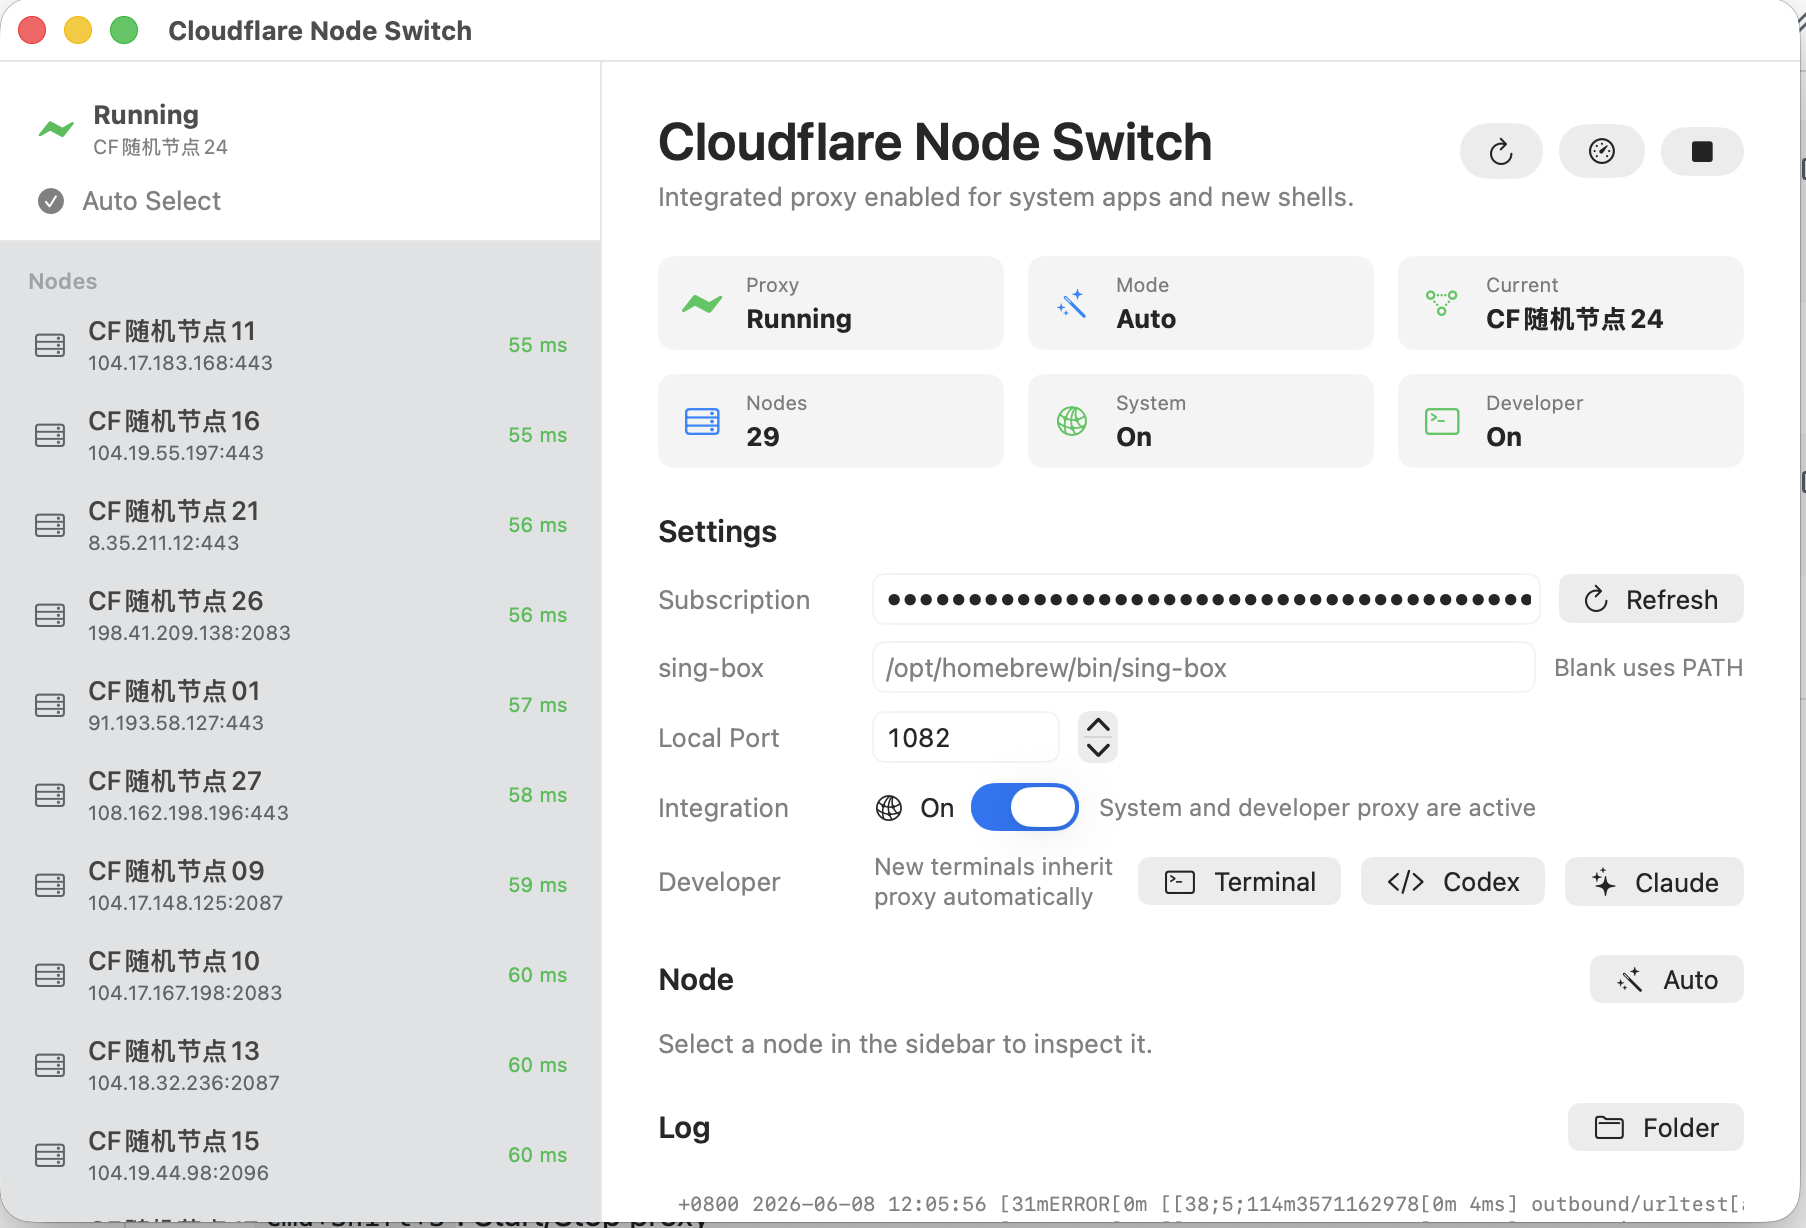
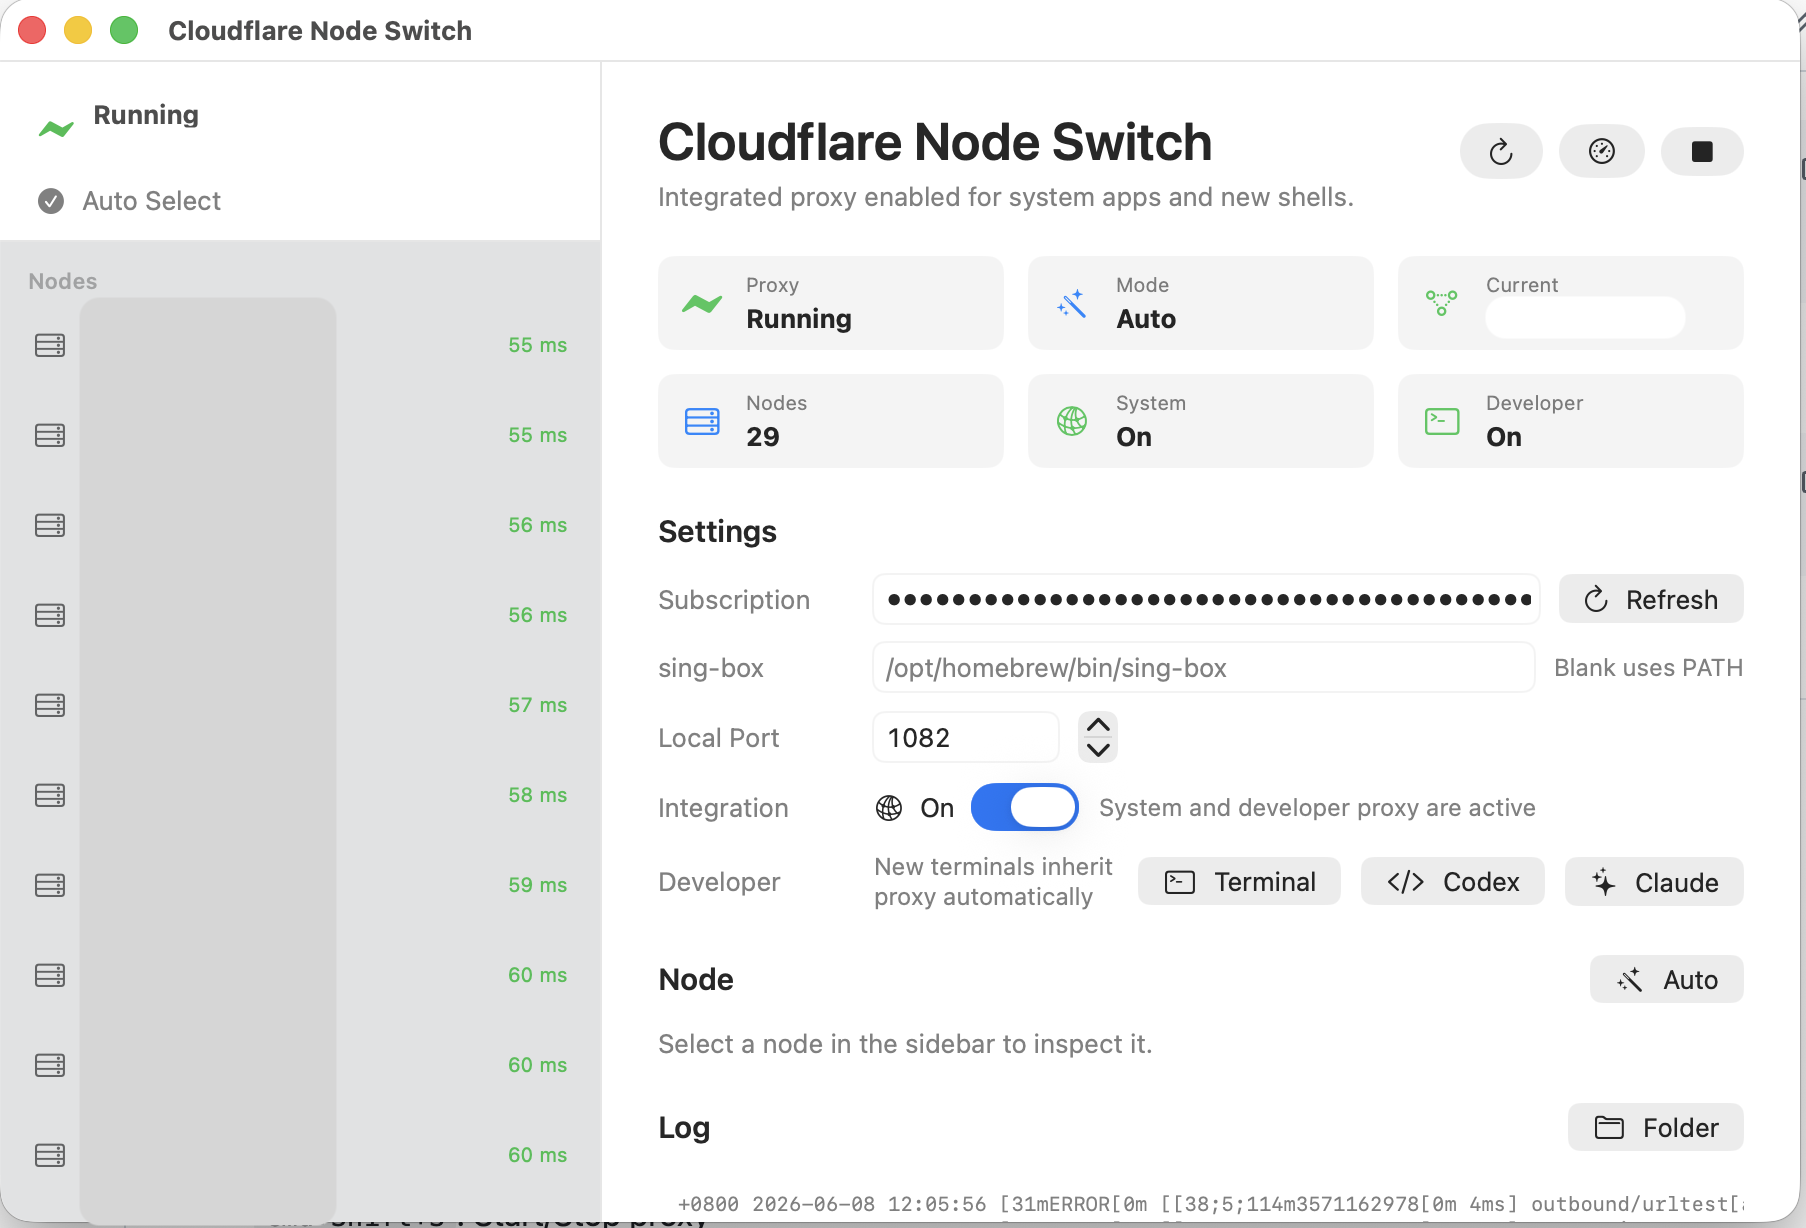
Remove Chinese README, hide sensitive terms in English README
- Remove README_CN.md
- Replace vless/subscription/proxy with generic terms
- Update screenshot

diff --git a/README.md b/README.md
@@ -1,8 +1,6 @@
 # Cloudflare Node Switch
 
-[English](README.md) | [中文](README_CN.md)
-
-A macOS SwiftUI application for managing VLESS subscription nodes with intelligent latency-based auto-selection.
+A macOS SwiftUI application for intelligent network node management with automatic latency-based selection.
 
 ![Screenshot](docs/screenshot.png)
 
@@ -16,13 +14,13 @@ The core feature is **automatic node optimization** — the app continuously tes
 ├─────────────────────────────────────────────────────────────────────┤
 │                                                                     │
 │  ┌──────────────┐     ┌──────────────┐     ┌───────────────┐       │
-│  │ Subscription  │────▶│  Parse VLESS │────▶│  Node Pool    │       │
-│  │     URL       │     │    Links     │     │  (N nodes)    │       │
+│  │   Remote     │────▶│   Parse &    │────▶│  Node Pool    │       │
+│  │   Config     │     │   Decode     │     │  (N nodes)    │       │
 │  └──────────────┘     └──────────────┘     └───────┬───────┘       │
 │                                                     │               │
 │                                                     ▼               │
 │  ┌─────────────────────────────────────────────────────────────┐    │
-│  │                     sing-box urltest                         │    │
+│  │                   Latency Auto-Test                         │    │
 │  │                                                              │    │
 │  │  ┌────────┐  ┌────────┐  ┌────────┐         ┌────────┐     │    │
 │  │  │ Node 1 │  │ Node 2 │  │ Node 3 │   ···   │ Node N │     │    │
@@ -40,11 +38,11 @@ The core feature is **automatic node optimization** — the app continuously tes
 │                            ▼                                            │
 │  ┌─────────────────────────────────────────────────────────────────┐    │
 │  │                    127.0.0.1:7890                                │    │
-│  │              Mixed HTTP / SOCKS5 Proxy                           │    │
+│  │                   Local Network Gateway                         │    │
 │  └─────────────────────────┬───────────────────────────────────────┘    │
 │                            ▼                                            │
 │                ┌───────────────────┐                                    │
-│                │    System Proxy   │                                    │
+│                │    System Network │                                    │
 │                │    + Developer    │                                    │
 │                │    Terminals      │                                    │
 │                └───────────────────┘                                    │
@@ -53,27 +51,27 @@ The core feature is **automatic node optimization** — the app continuously tes
 
 ### Selection Algorithm
 
-1. **Fetch Subscription** — Decode Base64 subscription response containing `vless://` links
-2. **Build Node Pool** — Parse all available Cloudflare edge nodes from the subscription
+1. **Fetch Config** — Retrieve and decode remote configuration data
+2. **Build Node Pool** — Parse all available Cloudflare edge nodes
 3. **Latency Testing** — TCP handshake to measure real connection time for each node
-4. **Auto Selection** — sing-box `urltest` continuously monitors and picks the fastest node
+4. **Auto Selection** — Continuously monitors and picks the fastest node
 5. **Failover** — If the current node fails, automatically switches to the next best option
-6. **Real-time Monitoring** — Clash API tracks the active node, UI updates every 3 seconds
+6. **Real-time Monitoring** — Tracks the active node, UI updates every 3 seconds
 
 ### Why This Works Well for Cloudflare
 
 - **Edge Network** — Cloudflare has 300+ edge locations worldwide
 - **Random Assignment** — Nodes are dynamically assigned, latency varies by time of day
-- **Continuous Testing** — urltest runs every minute with 50ms tolerance threshold
+- **Continuous Testing** — Auto-test runs every minute with 50ms tolerance threshold
 - **Smart Routing** — Picks the optimal node based on your actual network conditions
 
 ## Features
 
-- **VLESS Subscription Management**: Parse and manage VLESS subscription links
-- **Intelligent Node Selection**: Automatic latency-based node selection using sing-box's urltest
+- **Node Management**: Parse and manage network node configurations
+- **Intelligent Selection**: Automatic latency-based node selection
 - **Real-time Latency Testing**: TCP latency measurement for quick node sorting
-- **System Integration**: Seamless macOS system proxy configuration
-- **Developer Tools**: Proxy-aware terminal integration for development workflows
+- **System Integration**: Seamless macOS network configuration
+- **Developer Tools**: Network-aware terminal integration for development workflows
 - **Clean UI**: Native SwiftUI interface with sidebar node list and detailed configuration
 
 ## Requirements
@@ -108,24 +106,24 @@ open "$HOME/Applications/Cloudflare Node Switch.app"
 ## Usage
 
 1. Launch the application
-2. Paste your VLESS subscription URL in the settings panel
+2. Paste your configuration URL in the settings panel
 3. Click "Refresh" to load available nodes
-4. Click "Start" to launch the proxy service
-5. Enable system proxy integration for automatic configuration
+4. Click "Start" to launch the service
+5. Enable system network integration for automatic configuration
 
 ### Keyboard Shortcuts
 
-- `Cmd+R`: Refresh subscription
-- `Cmd+Shift+S`: Start/Stop proxy
-- `Space`: Start/Stop proxy (when window is focused)
+- `Cmd+R`: Refresh configuration
+- `Cmd+Shift+S`: Start/Stop service
+- `Space`: Start/Stop service (when window is focused)
 
 ### Developer Integration
 
-The application provides proxy-aware terminal integration for development tools:
+The application provides network-aware terminal integration for development tools:
 
-- **Terminal**: Open a new terminal with proxy environment variables
-- **Codex**: Launch Codex with proxy configuration
-- **Claude**: Launch Claude Code with proxy settings
+- **Terminal**: Open a new terminal with network environment variables
+- **Codex**: Launch Codex with network configuration
+- **Claude**: Launch Claude Code with network settings
 
 ## Configuration
 
@@ -135,10 +133,10 @@ Generated configuration and logs are stored in:
 ~/Library/Application Support/CloudflareNodeSwitch/
 ```
 
-### Proxy Settings
+### Network Settings
 
 - **Default Port**: 7890 (configurable)
-- **Protocol**: Mixed HTTP/HTTPS/SOCKS5 proxy
+- **Protocol**: Mixed HTTP/HTTPS/SOCKS5
 - **Auto-detection**: Interface auto-detection enabled
 
 ### Node Selection Modes
@@ -152,15 +150,15 @@ The application follows a clean MVVM architecture:
 
 - **AppState**: Central state management with Combine publishers
 - **Views**: SwiftUI components for the user interface
-- **Services**: Business logic for subscription parsing, config generation, and system integration
-- **Models**: Data structures for proxy nodes and configuration
+- **Services**: Business logic for config parsing, generation, and system integration
+- **Models**: Data structures for nodes and configuration
 
 ### Key Components
 
-- `SubscriptionService`: Fetches and parses VLESS subscription data
-- `SingBoxConfigBuilder`: Generates sing-box configuration from nodes
-- `SystemProxyManager`: Manages macOS system proxy settings
-- `DeveloperProxyManager`: Handles terminal proxy integration
+- `SubscriptionService`: Fetches and parses remote configuration data
+- `SingBoxConfigBuilder`: Generates configuration from nodes
+- `SystemProxyManager`: Manages macOS network settings
+- `DeveloperProxyManager`: Handles terminal network integration
 
 ## Development
 
@@ -207,6 +205,5 @@ This software is provided "as is", without warranty of any kind. The author is n
 
 ## Acknowledgments
 
-- [sing-box](https://sing-box.sagernet.org/) - The universal proxy platform
-- [VLESS Protocol](https://www.v2fly.org/en_US/v5/config/transport/vless.html) - The proxy protocol implementation
+- [sing-box](https://sing-box.sagernet.org/) - The universal network toolkit
 - SwiftUI - Apple's declarative UI framework
